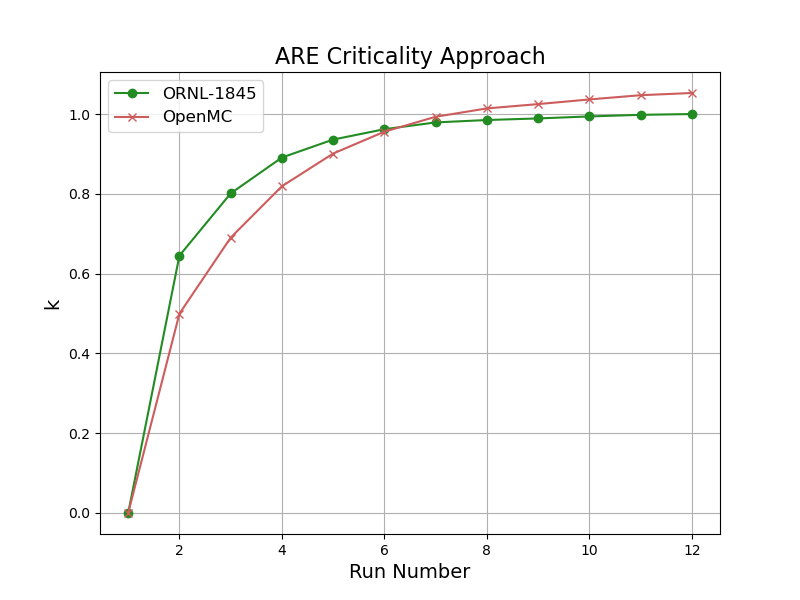
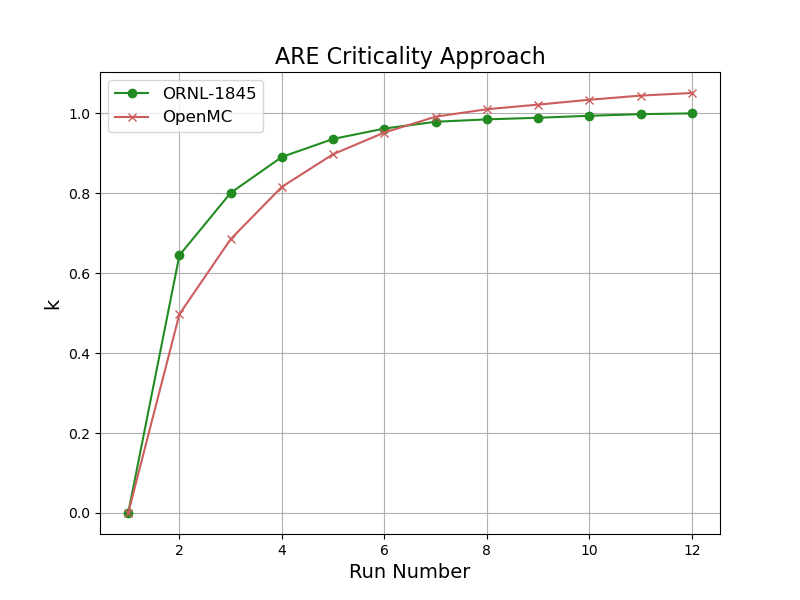
writeup updates:

diff --git a/scripts/initialize_materials.py b/scripts/initialize_materials.py
@@ -6,8 +6,8 @@ import openmc
 def create_materials(operating_temp):
     #ARE material definitions
 
-    # halfnium concentration in zirconium
-    h = 0.0001
+    # halfnium concentration <50 ppm accoring to ORNL-4616, so 25 ppm assumed
+    h = 0.0025
 
     #######################################################################
     #fuel salt NaF-ZrF4-UF4 0.5309-0.4073-0.0618 %mol
@@ -60,34 +60,6 @@ def create_materials(operating_temp):
     inconel.add_element('Ti',0.1725,percent_type='wo')
     inconel.add_element('B',0.04625,percent_type='wo')
     inconel.add_element('N',0.0295,percent_type='wo')
-
-    #inconel
-    #trace = 0.0001
-    #inconel = openmc.Material(name='inconel',temperature = operating_temp)
-    #inconel.add_element('Ni',78.5,percent_type='wo')
-    #inconel.add_element('Cr',14.0,percent_type='wo')
-    #inconel.add_element('Fe',6.5,percent_type='wo')
-    #inconel.add_element('Mn',0.25,percent_type='wo')
-    #inconel.add_element('Si',0.25,percent_type='wo')
-    #inconel.add_element('Cu',0.2,percent_type='wo')
-    #inconel.add_element('Co',0.2,percent_type='wo')
-    #inconel.add_element('Al',0.2,percent_type='wo')
-    #inconel.add_element('Ti',0.2,percent_type='wo')
-    #inconel.add_element('Ta',0.5,percent_type='wo')
-    #inconel.add_element('W',0.5,percent_type='wo')
-    #inconel.add_element('Zn',0.2,percent_type='wo')
-    #inconel.add_element('Zr',0.1,percent_type='wo')
-    #inconel.add_element('C',trace,percent_type='wo')
-    #inconel.add_element('Mo',trace,percent_type='wo')
-    #inconel.add_element('Ag',trace,percent_type='wo')
-    #nconel.add_element('B',trace,percent_type='wo')
-    #inconel.add_element('Ba',trace,percent_type='wo')
-    #inconel.add_element('Be',trace,percent_type='wo')
-    #inconel.add_element('Ca',trace,percent_type='wo')
-    #inconel.add_element('Cd',trace,percent_type='wo')
-    #inconel.add_element('V',trace,percent_type='wo')
-    #inconel.add_element('Sn',trace,percent_type='wo')
-    #inconel.add_element('Mg',trace,percent_type='wo')
     temp_adj_inconel = 1/(1+lambda_inconel*operating_temp)
     inconel.set_density('g/cm3',8.5*temp_adj_inconel)
 

diff --git a/scripts/materials.py b/scripts/materials.py
@@ -1,5 +1,4 @@
 import sys
-sys.path.append('/opt/openmc/')
 import openmc
 
 
@@ -23,34 +22,6 @@ BeO.add_element('Be',1.0)
 BeO.add_element('O',1.0)
 BeO.set_density('g/cm3',2.75)
 
-#inconel
-trace = 0.0925
-inconel = openmc.Material(name='inconel',temperature = operating_temp)
-inconel.add_element('Ni',78.5,percent_type='wo')
-inconel.add_element('Cr',14.0,percent_type='wo')
-inconel.add_element('Fe',6.5,percent_type='wo')
-inconel.add_element('Mn',0.25,percent_type='wo')
-inconel.add_element('Si',0.25,percent_type='wo')
-inconel.add_element('Cu',0.2,percent_type='wo')
-inconel.add_element('Co',0.2,percent_type='wo')
-inconel.add_element('Al',0.2,percent_type='wo')
-inconel.add_element('Ti',0.2,percent_type='wo')
-inconel.add_element('Ta',0.5,percent_type='wo')
-inconel.add_element('W',0.5,percent_type='wo')
-inconel.add_element('Zn',0.2,percent_type='wo')
-inconel.add_element('Zr',0.1,percent_type='wo')
-inconel.add_element('C',trace,percent_type='wo')
-inconel.add_element('Mo',trace,percent_type='wo')
-inconel.add_element('Ag',trace,percent_type='wo')
-inconel.add_element('B',trace,percent_type='wo')
-inconel.add_element('Ba',trace,percent_type='wo')
-inconel.add_element('Be',trace,percent_type='wo')
-inconel.add_element('Ca',trace,percent_type='wo')
-inconel.add_element('Cd',trace,percent_type='wo')
-inconel.add_element('V',trace,percent_type='wo')
-inconel.add_element('Sn',trace,percent_type='wo')
-inconel.add_element('Mg',trace,percent_type='wo')
-inconel.set_density('g/cm3',8.5)
 
 #insulation
 insulation = openmc.Material(name='insulation')

diff --git a/scripts/make_salt.py b/scripts/make_salt.py
@@ -17,8 +17,8 @@ def make_are_fuel(na:float=0.0,
     aircraft reactor experiment
     """
 
-    # halfnium concentration
-    h = 0.0001
+    # halfnium concentration <50 ppm accoring to ORNL-4616, so 25 ppm assumed
+    h = 0.0025
 
     # fuel salt NaF-ZrF4-UF4 0.5309-0.4073-0.0618 %mol
     salt = openmc.Material(name='salt', temperature = temp)

diff --git a/results/k_effective.md b/results/k_effective.md
@@ -1,0 +1,139 @@
+# k_effective
+
+the [critical experiment](/results/k_effective.md) consisted of 12 fuel additions ending in criticality with fuel salt NaF-ZrF4-UF4 0.5309-0.4073-0.0618 %mol of density 3.3142201 g/cc. 
+
+## data
+
+### design, geometry & configuration
+
+[/design/are.pdf](/design/are.pdf) lists reference of the ARE core design, documented in the ornl reports and located in the repository [github.com/openmsr/msr-archive](https://github.com/openmsr/msr-archive/blob/master/README.md)
+
+work-in-progress cad model of the ARE can be found [here](https://cad.onshape.com/documents/b83e5f739a4507bf06f2a2a9/w/9511a6ac44a9e4d439d86976/e/36d3d4af112bbf8cad7d521b?renderMode=0&uiState=62d907b3549a2247567bee8c) on onshape.
+
+appendix D of [ORNL-1845](https://github.com/openmsr/msr-archive/blob/master/docs/ORNL-1845.pdf) describes: "With the safety rods completely withdrawn and the neutron source and fisssion chambers inserted, the fuel concentrate will be forced into the fuel circuit." the control rods will thus be fully withdrawn for the k-effective simulation. neutron source and fission chamber parts are not included in the model due to lack of design information, and are assumed to be negligible materials with respect to steady state neutronics
+
+the cad model is converted to an OpenMC-readable h5m file via the cubit-DAGMC toolchain. see [step_to_h5m_cubit.py](/scripts/step_to_h5m_cubit.py)
+
+### materials
+
+all material definitions in OpenMC are consistent with material analysis and descriptions provided in the ORNL docs. instantiation and definitions of their respective `openmc.Material()` objects can be found in [initialize_materials.py](/scripts/initialize_materials.py). of particular importance to the steady-state neutronics are the fuel, inconel and moderator materials, which are discussed in more detail below.
+
+#### fuel
+
+the circulating fuel consisted of a NaF-ZrF<sub>4</sub> (50-50 mol%) carrier mixed with a Na<sub>2</sub>-UF<sub>6</sub> (66.7-33.3 mol%) concentrate enriched to 93.40%(see [ORNL-1845](https://github.com/openmsr/msr-archive/blob/master/docs/ORNL-1845.pdf)  Appendix B)
+
+
+fuel composition and other information at criticality are given in tables 4.3 and 4.4 of [ORNL-1845](https://github.com/openmsr/msr-archive/blob/master/docs/ORNL-1845.pdf) on page 33 (shown below).
+
+![](figures/ca.png)
+
+
+additionally, [ORNL-4616](https://github.com/openmsr/msr-archive/blob/master/docs/ORNL-4616.pdf) states that the Zr in the ZrF4 contained < 50 ppm halfnium. Therefore, a Hf impurity of 25 ppm is assumed. see below from [fuel_salts.py](/scripts/initialize_materials.py)
+for reference
+
+```python
+# halfnium concentration <50 ppm accoring to ORNL-4616, so 25 ppm assumed
+h = 0.0025
+
+#######################################################################
+#fuel salt NaF-ZrF4-UF4 0.5309-0.4073-0.0618 %mol
+salt = openmc.Material(name='salt', temperature = operating_temp)
+salt.add_element('F',41.96,percent_type='wo')
+salt.add_element('Na',11.13,percent_type='wo')
+salt.add_element('Zr',34.52*(1.0-h),percent_type='wo')
+salt.add_element('Hf',34.52*(h),percent_type='wo')
+salt.add_nuclide('U235',11.57,percent_type='wo')
+salt.add_nuclide('U238',0.83,percent_type='wo')
+salt.set_density('g/cm3',3.3142201)
+```
+
+#### inconel
+
+inconel makes up the large majority of the material in the ARE and the neutronics are thus sensitive to its composition. inconel composition is given in appendix B page 112 and shown below
+
+![](figures/inconel.png)
+
+as referenced in the footnotes of the table, the data is from a mechanical engineering textbook instead of on-site analysis. a structural analysis of inconel is documented in [ORNL-2264](https://github.com/openmsr/msr-archive/blob/master/docs/ORNL-2264.pdf) and was conducted for the purposes of a "prototype aircraft reactor test unit" (pg. 1), which refers to the Aircraft Reactor Test (ART). the structural analysis includes the chemical composition of the speciments tested (see below).
+
+![](figures/inconel_2264.png)
+
+an averaged composition of these specimens is used to define the composition of the inconel in this criticality approach experiment as it is assumed to be more accurate than the data given in appendix B of [ORNL-1845](https://github.com/openmsr/msr-archive/blob/master/docs/ORNL-1845.pdf) (above), and is consistent with the nominal composition of inconel 600. see below from [initialize_materials.py](/scripts/initialize_materials.py)
+for reference
+
+```python
+# from ORNL-2264 (average)
+inconel.add_element('Ni',76.5,percent_type='wo')
+inconel.add_element('Cr',15.275,percent_type='wo')
+inconel.add_element('Fe',7.375,percent_type='wo')
+inconel.add_element('Mn',0.2075,percent_type='wo')
+inconel.add_element('C',0.035,percent_type='wo')
+inconel.add_element('Cu',0.12,percent_type='wo')
+inconel.add_element('Si',0.175,percent_type='wo')
+inconel.add_element('S',0.007,percent_type='wo')
+inconel.add_element('Al',0.105,percent_type='wo')
+inconel.add_element('Ti',0.1725,percent_type='wo')
+inconel.add_element('B',0.04625,percent_type='wo')
+inconel.add_element('N',0.0295,percent_type='wo')
+temp_adj = 1/(1+lambda_inconel*operating_temp)
+inconel.set_density('g/cm3',8.5*temp_adj)
+```
+
+#### moderator (BeO)
+
+moderator is defined as BeO with impurities given in appendix B of [ORNL-1845](https://github.com/openmsr/msr-archive/blob/master/docs/ORNL-1845.pdf) shown below
+
+![](figures/BeO.png)
+
+
+see below from [initialize_materials.py](/scripts/initialize_materials.py) for reference
+
+```python
+BeO = openmc.Material(name='BeO',temperature = operating_temp)
+
+# by ao, expressed in ppm
+BeO.add_element('Be',499792)
+BeO.add_element('O',499792)
+
+# impurities
+BeO.add_element('Si',330)
+BeO.add_element('Al',50)
+BeO.add_element('Pb',25)
+BeO.add_element('Ni',5)
+BeO.add_element('Mn',5)
+BeO.add_element('Co',1)
+```
+
+
+### operating temperature & thermal expansion     
+
+[ORNL-1845](https://github.com/openmsr/msr-archive/blob/master/docs/ORNL-1845.pdf) page 23 describes "Both the sodium and the fuel system were at an isothermal temperature of 1300&deg;F". All materials are thus set to this temperature (977.5955&deg;K) in openmc.
+
+to account for thermal expansion, the cad [model](https://cad.onshape.com/documents/b83e5f739a4507bf06f2a2a9/w/9511a6ac44a9e4d439d86976/e/36d3d4af112bbf8cad7d521b?renderMode=0&uiState=62d907b3549a2247567bee8c) is uniformly scaled, starting from the dimensions detailed [here](../design/are.pdf). As inconel makes up a large majority of the material in the core, the thermal expansion coefficient $\lambda$ of inconel is used for scaling. the particular type of inconel used in the ARE is not provided in the documents, nor is any measurement of the linear thermal expansion coefficient $\lambda$. for the purposes of this simulation, it is assumed to be inconel 600 because at the time of the experiment (1954), only inconel 600 and 617 were available, and the nominal composition of inconel 600 is consistent with both appendix B of [ORNL-1845](https://github.com/openmsr/msr-archive/blob/master/docs/ORNL-1845.pdf) and the chemical analysis in in [ORNL-2264](https://github.com/openmsr/msr-archive/blob/master/docs/ORNL-2264.pdf). $\lambda$ is thus assumed to be $\sim$ $14.4*10^{-6} K^{-1}$ (interpolated from [here](https://www.hightempmetals.com/techdata/hitempInconel600data.php)). our scale factor for the model $s$ can therefore be expressed as $s = 1+\lambda T = 1.014$, where $T$ is the temperature in Kelvin (977.5955&deg;K for this simulation).
+
+as mentioned above, the fuel, inconel, and moderator materials are thought to be the most important with regard to the steady-state neutronics. the coefficient for inconel was used for the scale factor of the cad model because inconel makes up the majority of the core materials. however to account for differential expansion between the inconel and the BeO moderator, the Beryllium density was reduced in proportion to the difference in scale factors. no adjustment is made to the fuel densities, because the fuel will simply fill the volume of the inconel tubing, and there are empirical densities available for each run. the adjustment to the BeO density is detailed below:
+
+```math
+\lambda_{BeO} = 9.0*10^{-6} K^{-1}, \quad \lambda_{Inconel} = 14.4*10^{-6} K^{-1}, \quad \rho_{BeO} = 2.75 g/cm^3
+```
+
+```math
+\rightarrow \rho_{adjusted} = \frac{1+\lambda_{BeO}T}{1+\lambda_{Inconel}T} \rho_{BeO} = 0.9948 \rho_{BeO}
+```
+
+see below from [initialize_materials.py](/scripts/initialize_materials.py) for reference
+
+```python
+# density with temperature and differential expansion adjustment
+lambda_BeO = 9.0e-6
+lambda_inconel = 14.4e-6
+rho_0 = 2.75
+temp_adj = rho_0/(1+lambda_BeO*operating_temp)
+diff_exp_adj = (1+lambda_BeO*operating_temp)/(1+lambda_inconel*operating_temp)
+BeO.set_density('g/cm3',rho_0*temp_adj*diff_exp_adj)
+```
+
+## results
+
+results for a k_effective simulation using 100 batches (one inactive) of 1000 particles are shown below 
+
+![](figures/k.png)

diff --git a/results/criticality_approach.md b/results/criticality_approach.md
@@ -10,7 +10,7 @@ the approach to criticality was a phase of the critical experiment (E-1) detaile
 
 work-in-progress cad model of the ARE can be found [here](https://cad.onshape.com/documents/b83e5f739a4507bf06f2a2a9/w/9511a6ac44a9e4d439d86976/e/36d3d4af112bbf8cad7d521b?renderMode=0&uiState=62d907b3549a2247567bee8c) on onshape.
 
-appendix D of [ORNL-1845](https://github.com/openmsr/msr-archive/blob/master/docs/ORNL-1845.pdf) describes: "With the safety rods completely withdrawn and the neutron source and fisssion chambers inserted, the fuel concentrate will be forced into the fuel circuit." the control rods will thus be fully withdrawn for the criticality approach experiment. neutron source and fission chamber parts are not included in the model due to lack of design information, and are assumed to be negligible materials with respect to steady state neutronics
+appendix D of [ORNL-1845](https://github.com/openmsr/msr-archive/blob/master/docs/ORNL-1845.pdf) describes: "With the safety rods completely withdrawn and the neutron source and fisssion chambers inserted, the fuel concentrate will be forced into the fuel circuit." the control rods will thus be fully withdrawn for the criticality approach simulation. neutron source and fission chamber parts are not included in the model due to lack of design information, and are assumed to be negligible materials with respect to steady state neutronics
 
 the cad model is converted to an OpenMC-readable h5m file via the cubit-DAGMC toolchain. see [step_to_h5m_cubit.py](/scripts/step_to_h5m_cubit.py)
 
